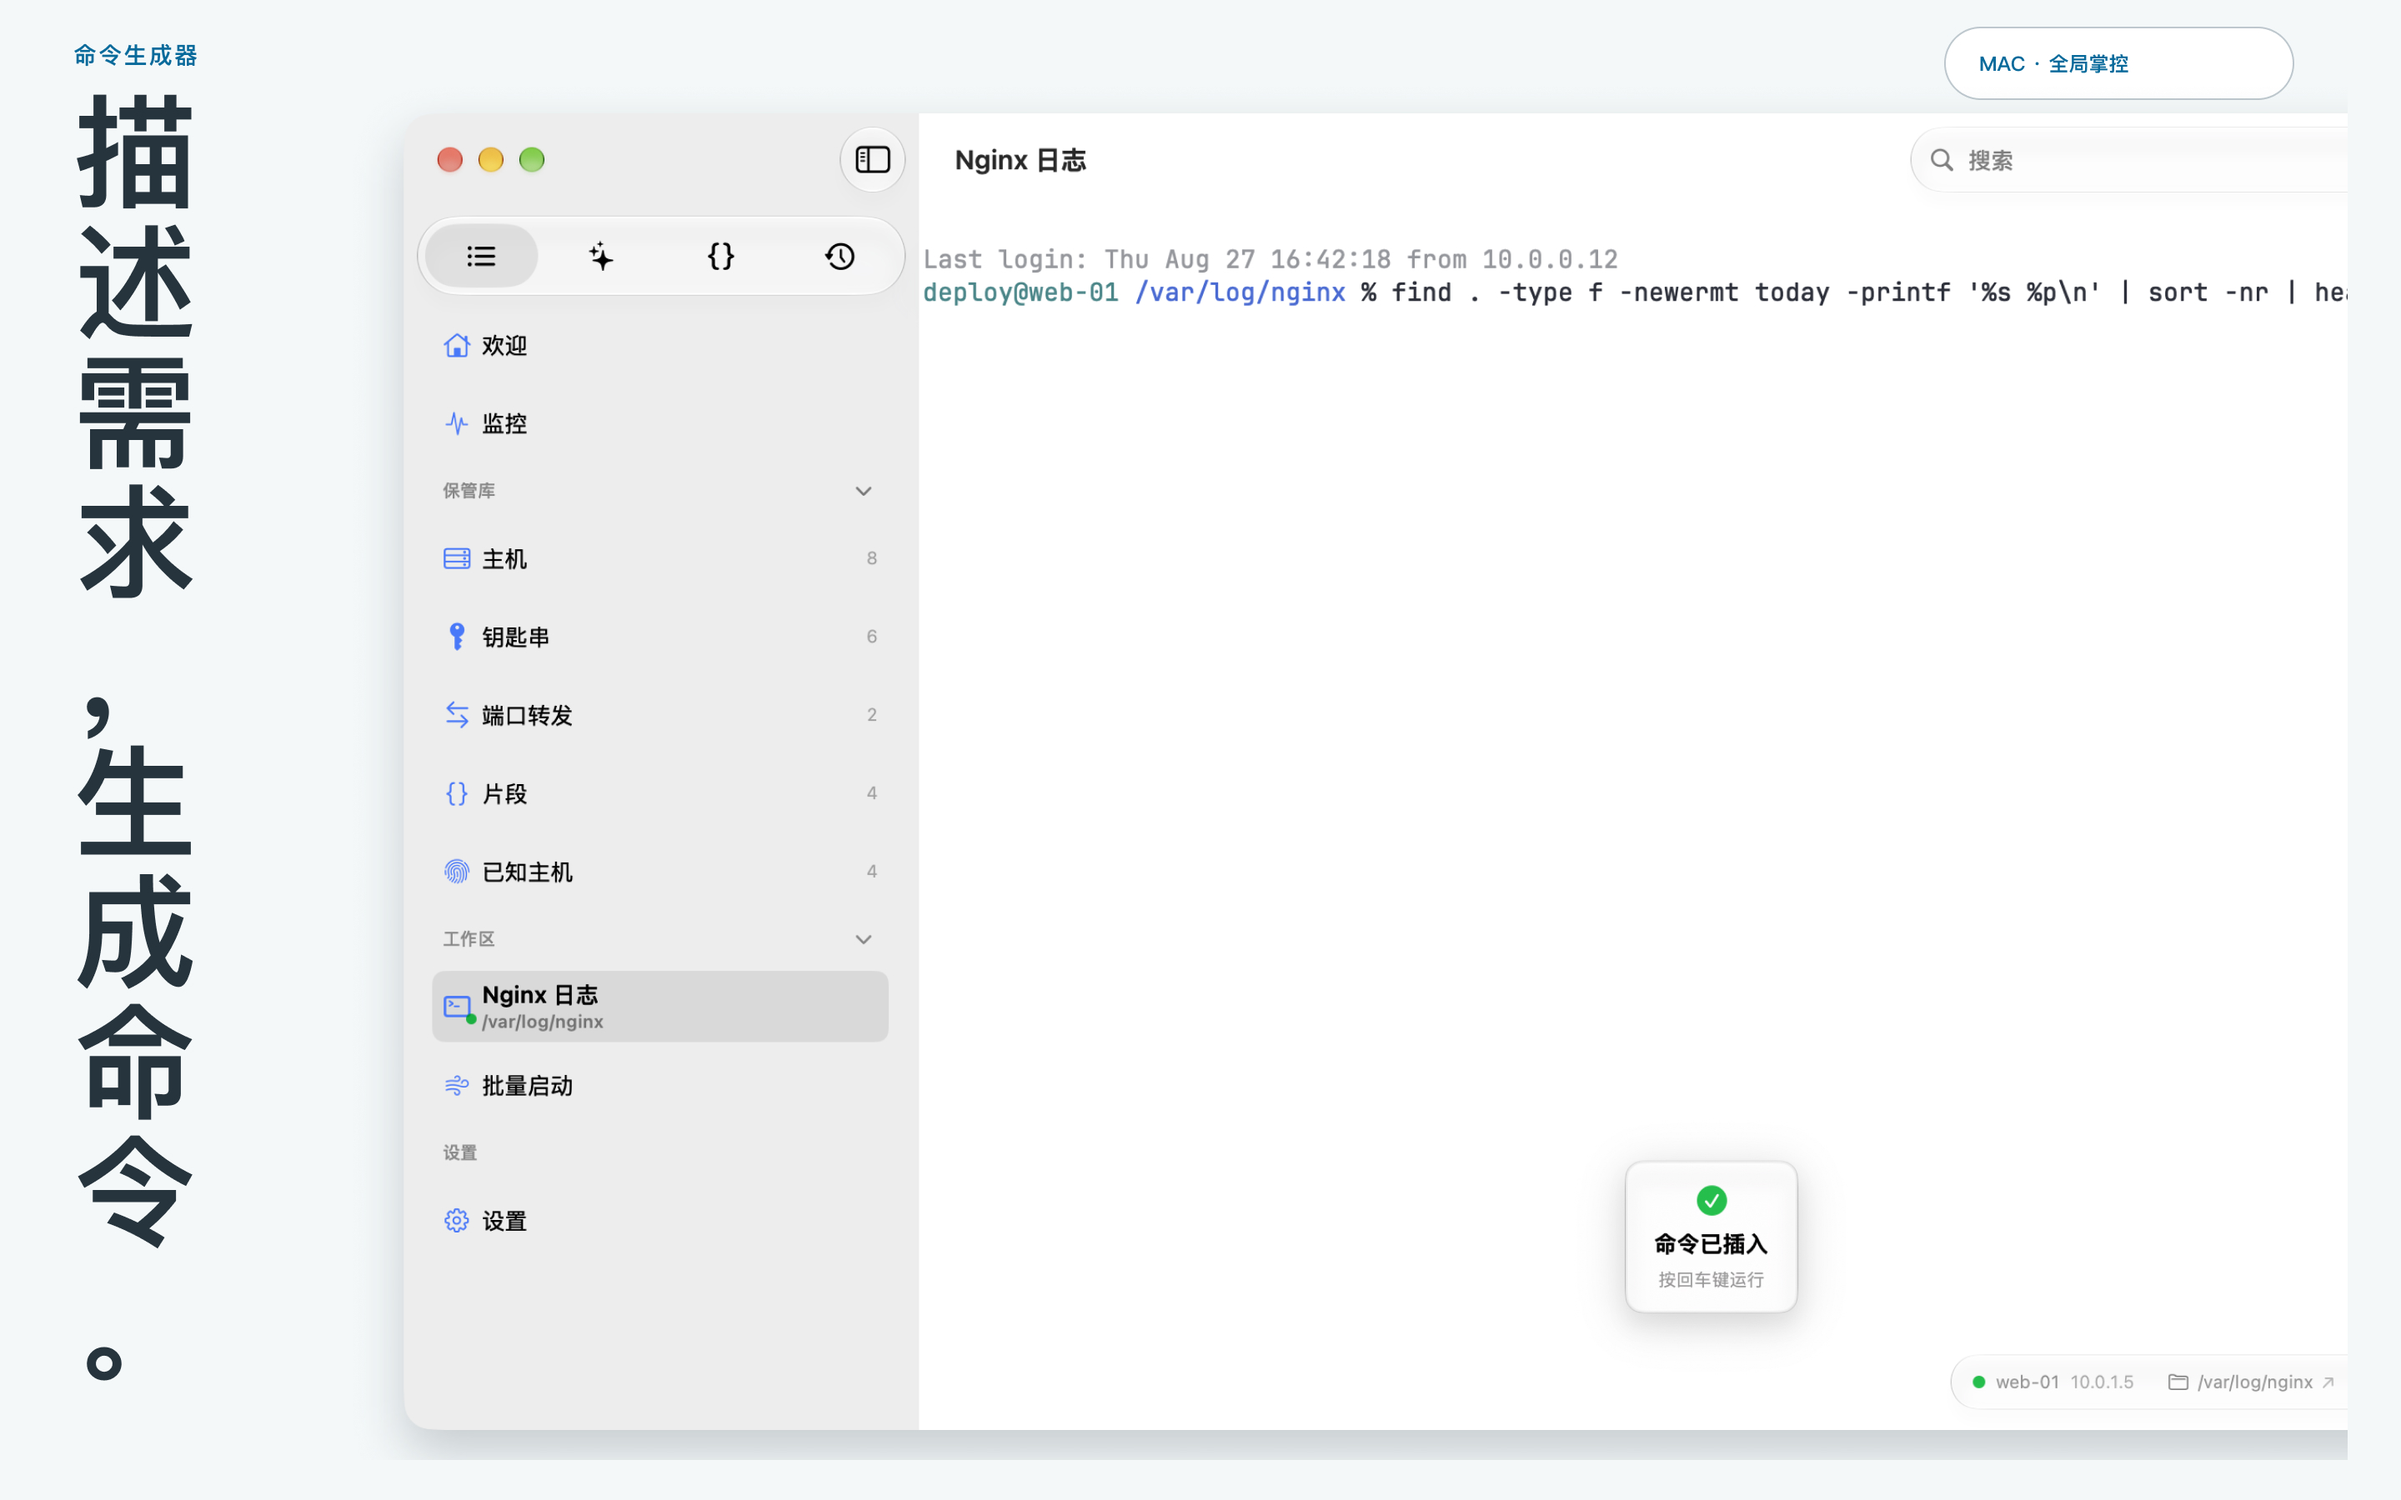
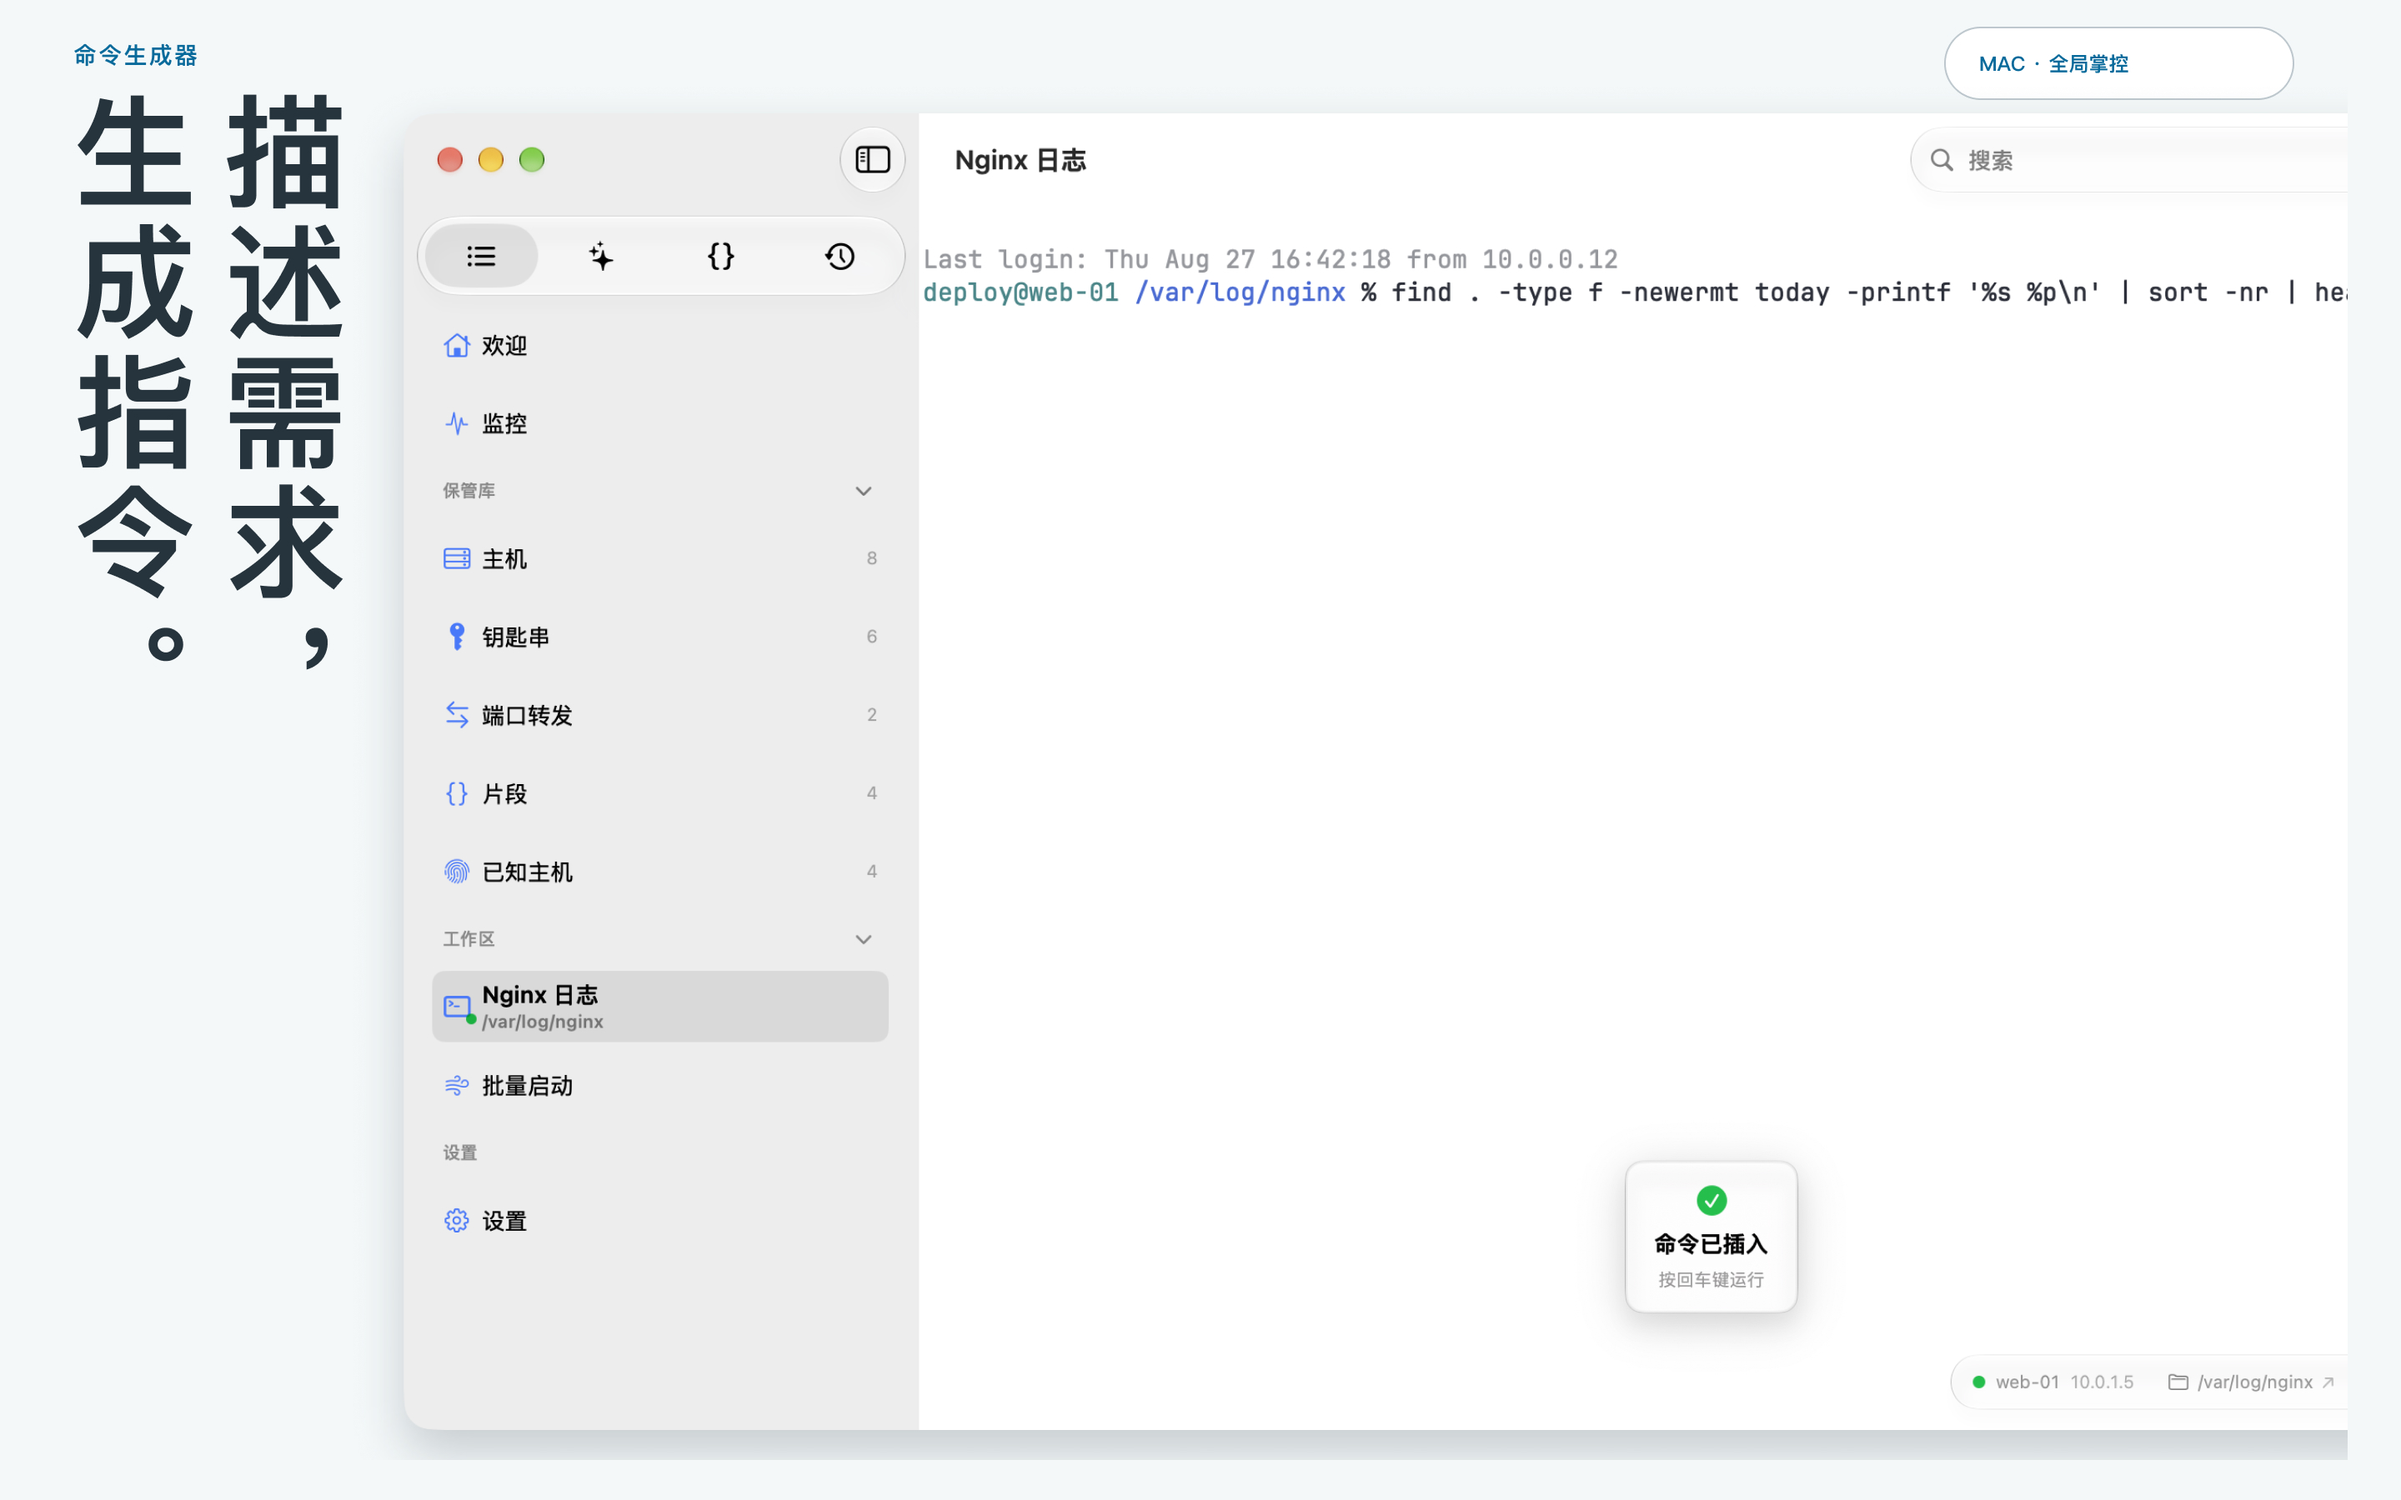
feat(assets): add Japanese marketing screenshots

Changed region(s): [[0.0312, 0.0622, 0.1562, 0.4356], [0.0312, 0.4667, 0.0938, 0.84], [0.0312, 0.9022, 0.0625, 0.9333]]

diff --git a/assets/README.md b/assets/README.md
@@ -7,11 +7,15 @@
 - `search_results/<locale>/search_results.png`: localized App Store search artwork.
 
 Header artwork is 3840 × 1646 pixels; Search Results artwork is 3840 × 2560 pixels.
+Japanese artwork uses upright Hiragino Sans text. Mac Command Generator
+headlines use two vertical columns, read right to left, with punctuation preserved
+in Japanese and both Chinese variants.
+
 Both are opaque RGB PNGs with an embedded sRGB profile, exported at 1× from the
 Figma `Header and Search Results` page. Keep review previews and export manifests
 outside this asset tree.
 
-Locales are `en`, `zh-hans`, and `zh-hant`. Capture and frame directories are `iphone-6.3`,
+Locales are `en`, `zh-hans`, `zh-hant`, and `ja`. Capture and frame directories are `iphone-6.3`,
 `ipad-15`, `mac-14`, `iphone-duo-inner`, and `iphone-duo-outer`. Filenames use lowercase words separated by underscores.
 
 ## Image sizes
@@ -34,7 +38,7 @@ and Assistant use the inner display; Metrics and Vault use the outer display.
 Overview combines Mac Workspace, Duo inner SFTP, and Duo outer Vault. Duo captures
 use iOS 27.1; iPhone 18 Pro and iPad Pro captures use iOS/iPadOS 27.0.
 All mobile captures use 9:41 and 100% battery while discharging.
-The iPhone Duo platform label reads “FLEXIBLE”, “灵活变换”, or “靈活變換”.
+The iPhone Duo platform label reads “FLEXIBLE”, “灵活变换”, “靈活變換”, or “自由に使い分け”.
 Its inner-display frame places the volume buttons along the top edge near the right corner.
 
 iPhone Overview uses two devices with aligned bottom edges: a fully visible

diff --git a/design/README.md b/design/README.md
@@ -9,9 +9,11 @@ Preserve transparency and white window fills. Do not add a platform icon mask.
 
 ## Website style
 
-Use white surfaces on #F7F9FA, #26343D text, #38B6F4 accents, and #086A9B for
-readable blue text and focus outlines. Headings use Iowan Old Style / Palatino
-and Songti SC; body text uses Avenir Next and PingFang SC.
+Use white backgrounds and solid #EDF3F7 panels, #26343D text, #38B6F4 accents,
+and #086A9B for readable blue text and focus outlines. Avoid gradients.
+English headings use Palatino and body text uses Avenir Next. Chinese uses
+PingFang SC/TC; Japanese uses Hiragino Sans. CJK side headlines in App Store
+artwork use upright vertical text, including vertical punctuation.
 
-Check all three languages, narrow screens, keyboard focus, and reduced motion.
+Check English, Simplified Chinese, Traditional Chinese, and Japanese pages, along with narrow screens, keyboard focus, and reduced motion.
 These guidelines grant no additional rights to use or redistribute Termind branding.
